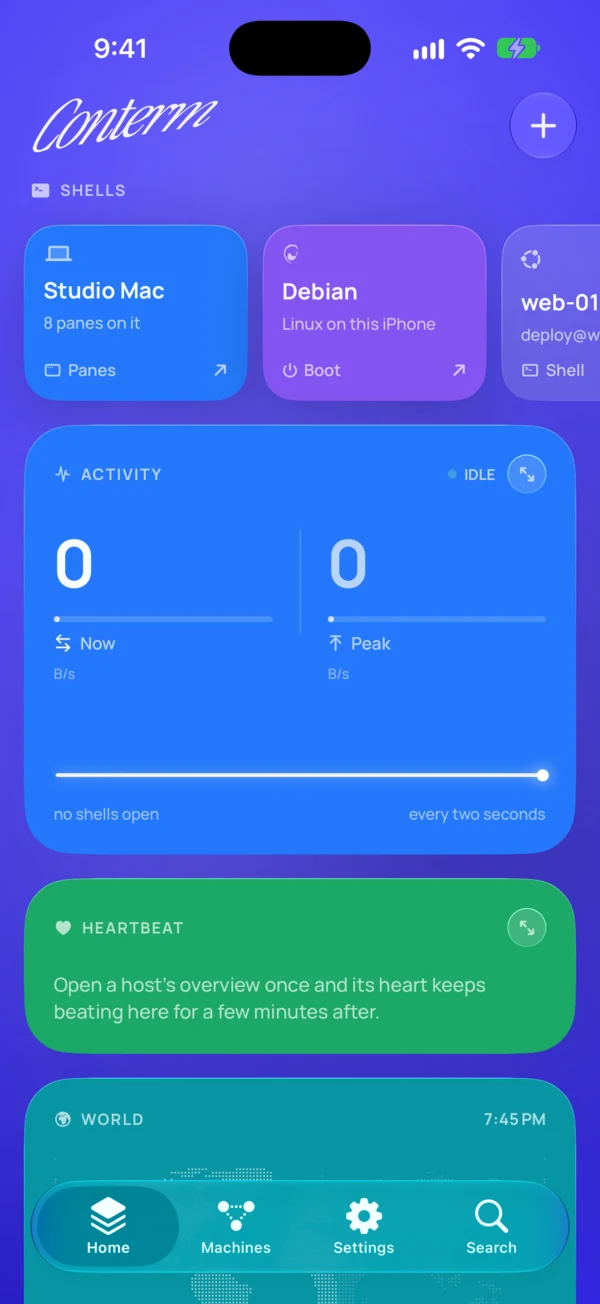
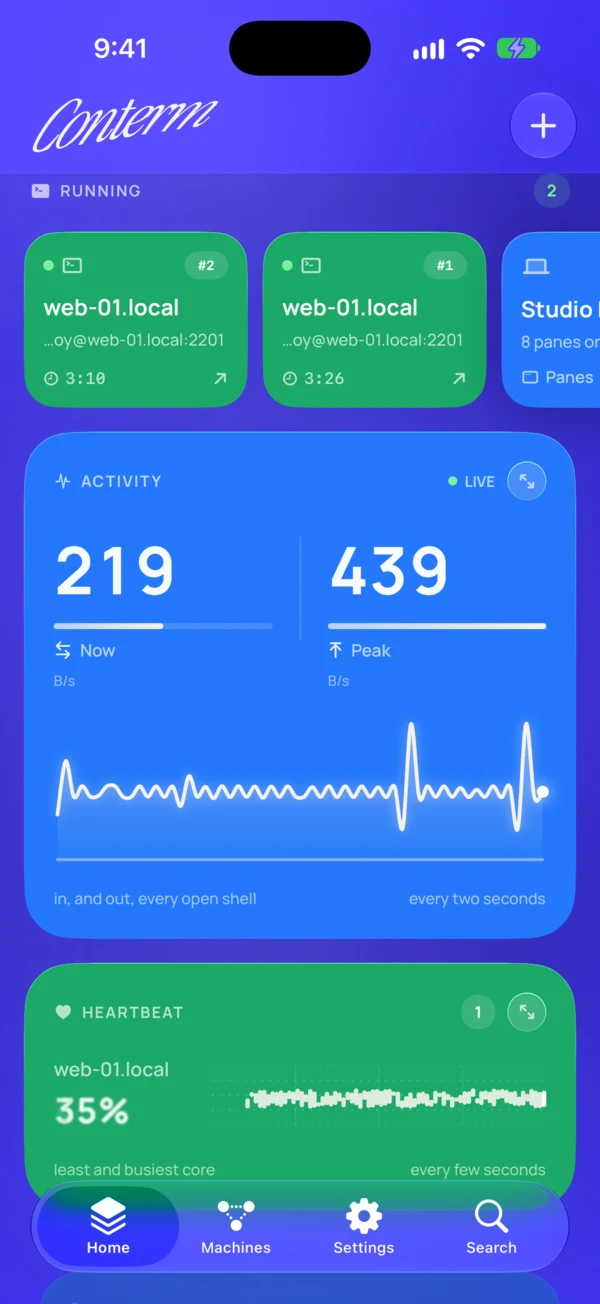
docs: refreshed Conterm for iOS screenshots

diff --git a/README.md b/README.md
@@ -290,10 +290,10 @@ Treat it as beta.
 ### Conterm for iOS
 
 <p>
+  <img src="docs/assets/screens/ios/home.webp" alt="Conterm for iOS home: a Mac, two live shells, activity and heartbeat" width="24%" />
   <img src="docs/assets/screens/ios/mac.webp" alt="Studio Mac's sessions on the phone, one Claude waiting" width="24%" />
   <img src="docs/assets/screens/ios/mac-pane.webp" alt="A Mac pane mirrored on the phone" width="24%" />
-  <img src="docs/assets/screens/ios/home.webp" alt="Conterm for iOS home: the Mac, shells and activity" width="24%" />
-  <img src="docs/assets/screens/ios/overview.webp" alt="Host Overview of web-01 on the phone" width="24%" />
+  <img src="docs/assets/screens/ios/overview.webp" alt="Host Overview of web-01, sampled live" width="24%" />
 </p>
 
 - **Your sessions on your phone** — every window, tab and pane, which agent
